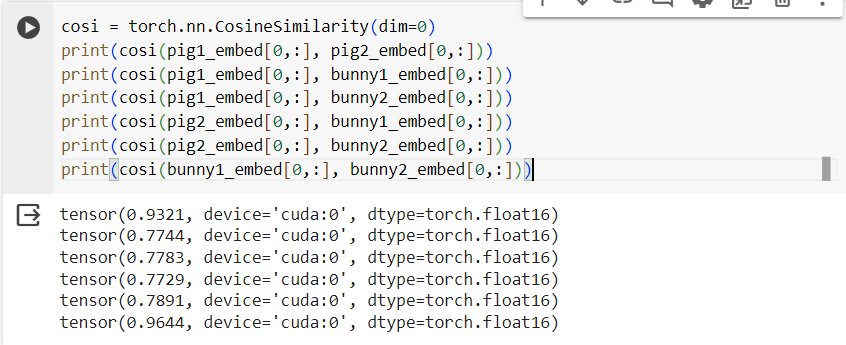
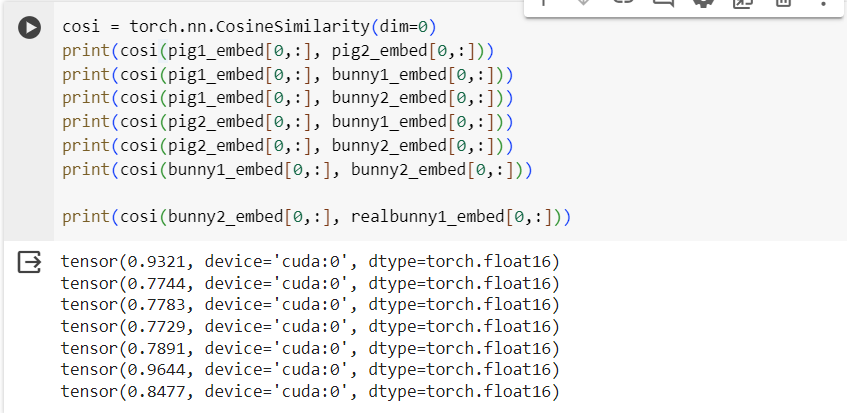
my_testset results

diff --git a/Figures/Code/clip_research.py b/Figures/Code/clip_research.py
@@ -25,12 +25,14 @@ pig1 = Image.open(path +"pig1.png").convert('RGB')
 pig2 = Image.open(path +"pig2.png").convert('RGB')
 bunny1 = Image.open(path +"bunny1.png").convert('RGB')
 bunny2 = Image.open(path +"bunny2.png").convert('RGB')
+realbunny1 = Image.open(path +"realbunny1.png").convert('RGB')
 
 # Preprocess the images
 pig1 = transform(pig1).unsqueeze(0).to(device)
 pig2 = transform(pig2).unsqueeze(0).to(device)
 bunny1 = transform(bunny1).unsqueeze(0).to(device)
 bunny2 = transform(bunny2).unsqueeze(0).to(device)
+realbunny1 = transform(realbunny1).unsqueeze(0).to(device)
 
 # Embed the images
 with torch.no_grad():
@@ -38,6 +40,7 @@ with torch.no_grad():
     pig2_embed = model.encode_image(pig2)
     bunny1_embed = model.encode_image(bunny1)
     bunny2_embed = model.encode_image(bunny2)
+    realbunny1_embed = model.encode_image(realbunny1)
 
 cosi = torch.nn.CosineSimilarity(dim=0)
 print(cosi(pig1_embed[0,:], pig2_embed[0,:]))
@@ -46,6 +49,8 @@ print(cosi(pig1_embed[0,:], bunny2_embed[0,:]))
 print(cosi(pig2_embed[0,:], bunny1_embed[0,:]))
 print(cosi(pig2_embed[0,:], bunny2_embed[0,:]))
 print(cosi(bunny1_embed[0,:], bunny2_embed[0,:]))
+
+print(cosi(bunny2_embed[0,:], realbunny1_embed[0,:]))
 
 # Output:
 # tensor(0.9321, device='cuda:0', dtype=torch.float16)
